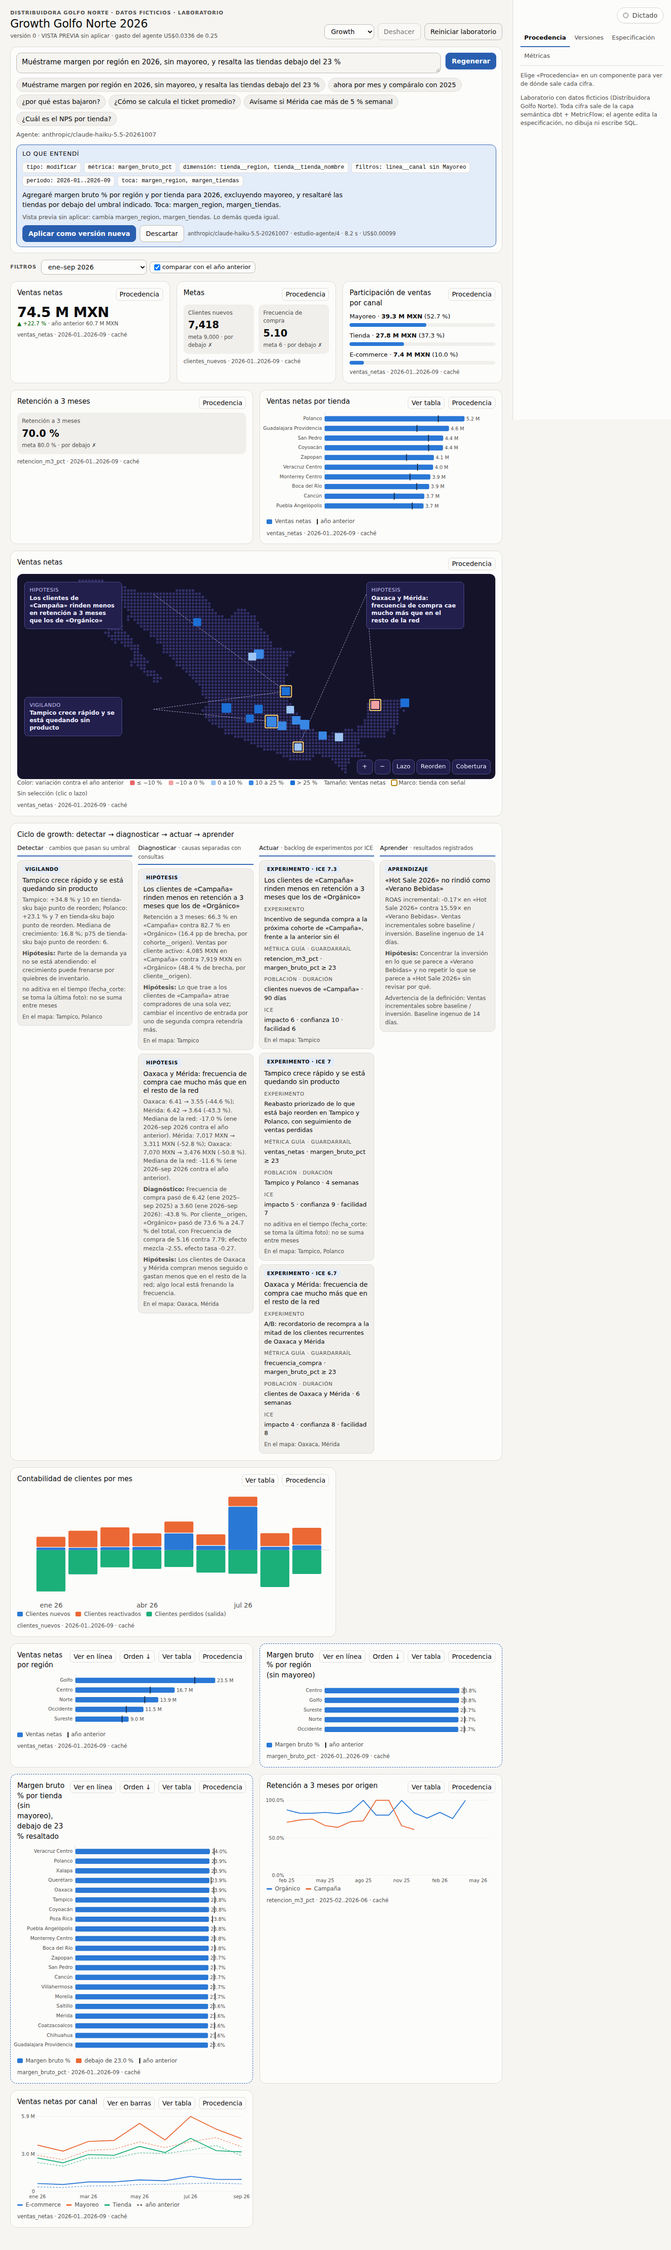
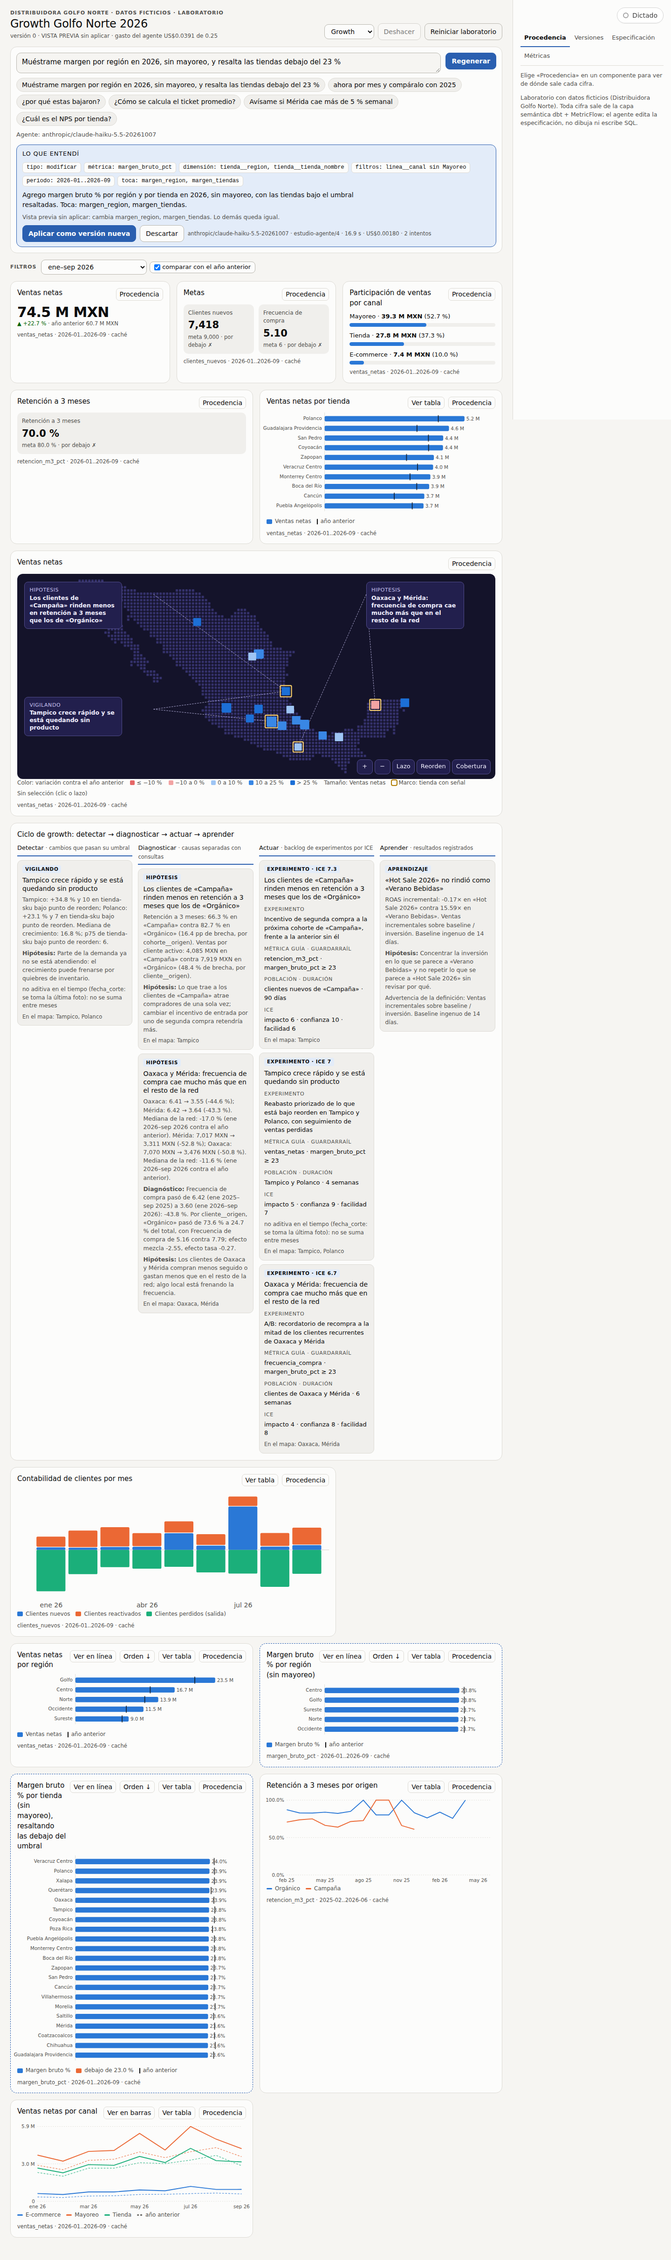
estudio: reporte (decisiones, formas de estar mal, post-mortem), propuestas para firmar sin firmar, capturas finales y grafo

diff --git a/docs/goals/estudio-dashboards-reporte.md b/docs/goals/estudio-dashboards-reporte.md
@@ -1,0 +1,201 @@
+# Estudio de dashboards: reporte del goal (2026-10-20)
+
+Spec: `docs/goals/estudio-dashboards.md` · grafo: `docs/grafos/estudio-dashboards.json` · propuestas para firmar:
+`docs/goals/estudio-dashboards-propuestas-firma.md` · evidencia: `docs/goals/estudio-dashboards-medicion/` y
+`docs/goals/estudio-dashboards-capturas/`. Datos ficticios (Distribuidora Golfo Norte). Sin push, PR ni firmas.
+
+## Qué existe
+
+- `tools/estudio-dashboards`: el núcleo (sin React, Next, Supabase ni Node; solo `zod`).
+  - **Especificación y parches.** Una especificación validada `estudio.dashboard/1` (15 tipos de componente: los 14 del prototipo más `hallazgo`) y parches `estudio.parche/1` con alcance declarado.
+  - **Versiones** con deshacer, comparación y oficial.
+  - **Catálogo genérico** de MetricFlow, y un **consultor** con límites y caché.
+  - **Resolver** que no suma en el cliente.
+  - **Análisis de variación**: mezcla y tasa, volumen y precio.
+  - **Motor de señales.**
+  - **Alertas** sin canal y **propuesta de métrica** como diff.
+  - **Superficie de herramientas**, el **agente** (el LLM solo estructura) y el **CLI**.
+  - **Subpaths**: `./metricflow` (MetricFlow caliente en un proceso Python del lock), `./openrouter` y `./almacenes/archivo`.
+- `tools/estudio-dashboards/laboratorio`: el proyecto dbt `golfo_norte`, igual al zip salvo las rutas por entorno y un target de solo lectura. Trae:
+  - `corre.mjs`: hashes, `dbt build`, `mf validate-configs` y la tabla de cifras;
+  - `directo.py`: el conteo directo;
+  - el segundo catálogo y el recorrido del CLI.
+- `tools/estudio-dashboards/evaluacion`: el contrato, el set congelado, su validador y la medición con el LLM real.
+- `src/features/estudio-dashboards` y `/laboratorio-estudio-dashboards`: el lienzo. La ruta `/api/estudio-dashboards` cierra con 503 fuera del laboratorio.
+- `scripts/estudio-dashboards/recorrido.ts`: los 7 flujos con Playwright y axe.
+
+## Evidencia por punto del HECHO
+
+**Datos fijados.**
+- Los 7 sha256 (`laboratorio/datos.json`) son iguales a los del spec y a los del zip.
+- Regenerar con semilla (numpy 2.5.4, pandas 3.0.6; `gen_data.py` y luego `lifecycle.py`, en una carpeta temporal) da los mismos 7 hashes: reproducible (`regeneracion.json`).
+- Los CSV del zip no se tocaron.
+
+**Plano de datos.**
+- `dbt build`: «Finished running 12 table models, 45 data tests, 10 view models · PASS=67 WARN=0 ERROR=0».
+- `mf validate-configs`: sin errores ni avisos en los siete pasos.
+- Lock con hashes: `semantica/requirements.lock`.
+
+**Tabla de cifras** (`cifras.md`): 62 filas.
+- 53 con MetricFlow = conteo directo.
+- 8 sin métrica en el catálogo, dichas así: combinaciones totales, meses con compra de los establecidos, días entre compras, valor a 6 meses y días en campaña.
+- 1 trampa documentada.
+- 2 que no cuadran con la propuesta, explicadas.
+
+Nada se ajustó. Las divergencias:
+
+| Cifra | Propuesta | Capa / directo | Por qué |
+|---|---|---|---|
+| `crecimiento_ventas_yoy_pct` a grano año, ene–sep 2026 | 22.7 | −17.02 / 22.72 | Trampa de la métrica con desfase: a grano año agrega 2025 completo antes de filtrar. A grano mes cuadra (julio: +44.84 en los dos). El Estudio compara periodos con dos consultas y rechaza esa métrica en un KPI de varios meses |
+| Retención M+3, todas las cohortes maduras | 70.0 | 72.50 / 72.50 | Ventana: con las cohortes de 2026 da 69.97 (la columna del catálogo de la propuesta dice «ene–sep 2026»); los 66.3 y 82.7 por origen son de todas las cohortes |
+| Días entre compras en Mérida | 23 → 42 | 23.77 → 42.51 (directo) | La propuesta trunca; redondeado serían 24 y 43. Sin métrica en el catálogo |
+| Valor en 6 meses, campaña y orgánico | 4,636 y 6,730 | 4,635.6 y 6,730.2 (directo, segundo intento) | Ventana no declarada: el primer intento (cohortes observadas 6 meses) dio 4,635.4 y 6,718.3; el segundo (altas hasta marzo de 2026) cuadra. Sin métrica |
+
+**Suites del núcleo.** `npm --prefix tools/estudio-dashboards run prueba`: 46 pruebas, 46 en verde. Incluyen los casos malos que pide el HECHO:
+- métrica inventada, dimensión inválida, SQL libre (campo, texto y filtro), fuera de dominio;
+- parche que borra o cambia de más;
+- deshacer y comparar;
+- sin métrica, que lo dice y ofrece proponerla;
+- números del texto ⊆ resultados.
+
+**Señales: 3 de 3 contra la capa real,** sin nombrarlas:
+- Oaxaca −44.6 % y Mérida −43.3 % en frecuencia, contra −17.0 % de mediana;
+- campaña 66.3 % contra orgánico 82.7 % en retención;
+- Tampico +34.8 % con 10 SKU bajo reorden, y Polanco.
+
+La prueba comprueba que ni `src/senales.ts` ni `laboratorio/perfil.json` nombran tiendas, regiones ni segmentos sembrados. Ninguna tarjeta sin evidencia; la cuarta es el aprendizaje del ROAS, real y con la advertencia del baseline.
+
+**Medición con el LLM real.**
+- Set `evaluacion/set-referencia.json`, sha256 `sha256:647b0b27ce23a447b2e99d2b697919e6cf3b393ea4785fe31cce9373e2897676`. Lo congela el commit `f6e42aa`, anterior al primer prompt (`ed2ec09`).
+- Gasto medido por llamada: **US$1.2087 en 984 llamadas, ninguna sin costo** (`llamadas.jsonl`).
+- Saldo de la cuenta: **1.9635 antes de la primera llamada → 0.7534 después de la última medición**.
+- Aparte, el lienzo gastó US$0.0409 en 55 llamadas (`~/.estudio-dashboards/golfo-norte/gasto.jsonl`).
+
+| corrida | modelo | razonamiento | total | crear | modificar | filtrar | analizar | explicar | alertar | US$ | modelo p50 ms | regeneración p50 / p95 ms | consulta p95 ms |
+|---|---|---|---|---|---|---|---|---|---|---|---|---|---|
+| voz-corrida1 (`4ce44ac`) | claude-haiku-5.5-20261007 | del proveedor | 95/100 | 14/16 | 19/20 | 16/16 | 14/16 | 16/16 | 16/16 | 0.0370 | 2549 | 2624 / 4959 | 35 |
+| voz (tras el arreglo de q059) | claude-haiku-5.5-20261007 | del proveedor | 94/100 | 14/16 | 18/20 | 16/16 | 14/16 | 16/16 | 16/16 | 0.0362 | 2446 | 2663 / 4685 | 33 |
+| voz-corrida3 | claude-haiku-5.5-20261007 | del proveedor | 95/100 | 15/16 | 18/20 | 16/16 | 14/16 | 16/16 | 16/16 | 0.0384 | 2683 | 3011 / 5637 | 81 |
+| ligero | claude-haiku-4.5 | del proveedor | 79/100 | 12/16 | 11/20 | 14/16 | 12/16 | 15/16 | 15/16 | 0.3026 | 2900 | 3077 / 7610 | 43 |
+| capaz | claude-sonnet-5 | del proveedor | 89/100 (+4/4 reintento por 429 = 93) | 16/16 | 17/20 | 12/16 (+4) | 14/16 | 16/16 | 14/16 | 0.6138 | 4130 | 4408 / 9157 | 32 |
+| voz-sin-razonamiento | claude-haiku-5.5-20261007 | apagado | 86/100 | 13/16 | 15/20 | 16/16 | 13/16 | 14/16 | 15/16 | 0.0236 | 1594 | 1723 / 2840 | 31 |
+| voz-razonamiento-1024 | claude-haiku-5.5-20261007 | 1024 | 95/100 | 16/16 | 17/20 | 16/16 | 14/16 | 16/16 | 16/16 | 0.0385 | 4507 | 4670 / 8073 | 33 |
+| **voz-razonamiento-512 (propuesta)** | claude-haiku-5.5-20261007 | 512 | **95/100** | 16/16 | 17/20 | 16/16 | 14/16 | 16/16 | 16/16 | 0.0388 | 4503 | 4698 / 8045 | 32 |
+
+- **≥ 90 % en total: sí**, con Haiku 5.5 (el nivel más barato). **Por tipo: no.** En la configuración propuesta,
+  modificar queda en 85 % y analizar en 87.5 %. **Ningún nivel medido pasa los seis tipos.** Opus 5 no cabía en el tope
+  (estimado ~US$1.5 con el acumulado en 1.07) ni en el saldo de la cuenta. El set no se relajó.
+- **Fallas persistentes** (leídas después de congelar el prompt; no se iteró contra la partición retenida):
+  - q021 y q027 (modificar): el esperado cuenta el eje de tiempo implícito de una línea como dimensión. El
+    contrato dice «si la instrucción lo pide», y ninguna de las dos lo pide.
+  - q020 (modificar): pide «por mes» y el agente no lo declaró. **Falla real del agente.**
+  - q059 (analizar): el set espera analizar `crecimiento_ventas_yoy_pct`. El motor rechaza descomponer una métrica
+    con desfase y el agente corrige a `ventas_netas`: choque entre el set y la semántica de la capa.
+  - q058 (analizar): «campaña frente a orgánicos» es eje de comparación o filtro; ambigua.
+  - Las demás fallas varían entre corridas (q004, q006, q012…): el modelo no es determinista ni a temperatura 0.
+- **Latencia**: la consulta a la capa en frío, p95 31–81 ms: **< 3 s, cumple**. La regeneración (modelo,
+  validación y datos con caché caliente) p95: 4.7–5.6 s con el razonamiento del proveedor, 8.0 s con el
+  propuesto y 2.8 s apagado. **El objetivo de < 5 s p95 no se cumple con la configuración que da 95 %**;
+  apagado sí se cumple, pero baja a 86 %. Es una decisión del laboratorio.
+
+**Capturas con Playwright** (`docs/goals/estudio-dashboards-capturas/`, `recorrido.json`): los 7 flujos en
+escritorio (1440×900) y celular (390×844), con el agente real.
+- Flujo 1: antes, «lo que entendí» y después.
+- Flujo 2: por mes y comparado con 2025, sobre la gráfica recién creada.
+- Flujo 3: mapa arrastrado y acercado, lazo en Mérida más clic en Oaxaca, el tablero filtrado y «¿por qué estas
+  bajaron?» con su hallazgo.
+- Flujo 4: procedencia con definición, dueño, filtros y SQL compilado.
+- Flujo 5: volver a la v1 y comparar la v1 con la v5.
+- Flujo 6: ciclo detectar → aprender con las tarjetas enlazadas en el mapa (en celular, como lista bajo el mapa).
+- Flujo 7: NPS sin métrica.
+
+Resultado: 0 peticiones externas, 0 errores de consola y **axe con 0 violaciones serias o críticas** en las dos
+vistas (WCAG 2.2 AA).
+
+**CLI** (`recorrido-cli.md`): los 12 subcomandos y `agente` contra la capa real.
+- El seco es la opción por defecto, y en seco no se escribe nada.
+- Códigos de salida: 2 uso, 3 métrica inventada, 3 SQL libre, 3 alerta sin confirmar, 4 sin capa y 5 sin llave.
+- La paridad CLI = núcleo la prueba `pruebas/cli.ts`, sin capa y contra la capa real.
+- Grado: no medido.
+
+**Portabilidad** (`segundo-catalogo.json`): la capa de soporte-sap tal cual. `dbt build` PASS=53, 38 métricas listadas, un tablero armado solo desde el catálogo, válido y resuelto con datos, y `git diff` del núcleo vacío.
+
+## Decisiones (qué y por qué)
+
+- **DuckDB y no Postgres**: el SQL del zip es DuckDB. Portarlo era riesgo puro (cada `strftime`, `date_diff` e
+  `interval`). Lock nuevo con dbt-duckdb 1.11.0 y duckdb 1.5.5 y las mismas versiones de la casa, más dbt-postgres
+  para servir también al segundo catálogo.
+- **MetricFlow caliente en un proceso Python** (API `MetricFlowEngine`) en vez de `mf query` por CLI o un compilador
+  propio. El CLI paga ~3 s de arranque por consulta; el proceso, 0.1 s. Un compilador propio sería reimplementar la
+  capa. El núcleo solo ve un puerto (`PuertoSemantico`).
+- **El LLM solo estructura** (el patrón de `grafo-conocimiento`): el plan dice tipo y «lo que entendí». Solo
+  MODIFICAR trae operaciones; crear, filtrar, analizar, explicar y alertar los arma el núcleo. Así no escribe cifras
+  ni SQL, y el 90 % mide comprensión, no la sintaxis de un JSON largo.
+- **Parches con alcance y tres cerrojos contra el merge silencioso**: operaciones por tipo, lo tocado ⊆ lo declarado
+  y los componentes no tocados idénticos byte a byte.
+- **Comparar con el año anterior = dos consultas**, nunca la métrica con desfase sobre un periodo: lo enseñó la
+  tabla de cifras (−17 % contra +22.7 %).
+- **Umbrales de señales estadísticos y declarados**: z robusto 3, brecha 10 pp o 15 %, mediana y p75. El perfil solo
+  asigna métricas a palancas y dimensiones de recorrido («por tienda, cohorte y origen», del spec).
+- **La geografía no es cifra**: las coordenadas vienen de `tiendas.csv` y la rejilla del prototipo, en
+  `geografia.json`. La cobertura queda apagada porque la capa no tiene ese dato.
+- **CLI y no MCP**: lo decidió el laboratorio (CLI-first: un MCP se paga en cada sesión).
+- **Versiones en archivo** (`~/.estudio-dashboards/`): Supabase está pausado y el núcleo no lo conoce.
+- **Iteración del prompt solo contra la partición de desarrollo**. Se reporta la retenida aparte: 92.9–94.3 % según
+  la corrida.
+
+## Formas en que esto podría estar mal o incompleto
+
+Las que se resolvieron:
+- **El puntuador aplicaba la regla general del contrato a todos los tipos**; la tabla del contrato fija qué se
+  compara por tipo. Se corrigió el puntuador (no el set) tras la primera corrida de desarrollo, y queda dicho aquí.
+- **Truncado del plan** por razonamiento oculto: se mide y se fija explícito.
+- **Lectores bloqueados por DuckDB**: target de solo lectura.
+- **Orden de filas no determinista**: el adaptador ordena.
+- **El lazo y los botones del mapa no recibían el clic.**
+- **Contraste y semántica de listas** según axe.
+
+Las que siguen abiertas:
+- **Umbrales vistos con los datos**: fijé los umbrales de señales después de mirar la distribución por tienda. Son
+  estadísticos de manual, pero es posible que otro umbral igual de razonable deje fuera a Polanco o meta otra
+  tienda. No se probó el motor contra un catálogo con señales distintas.
+- **El set** tiene al menos cuatro esperados discutibles (§Medición). Con un set v2 adjudicado, modificar y
+  analizar podrían pasar el 90 %, o no: no se sabe y no se supuso.
+- **Variación entre corridas**: 94–95/100 con la misma configuración. Tres corridas no son una distribución.
+- **Latencia**: la configuración precisa no cumple los 5 s p95.
+- **«Lo que entendí» para MODIFICAR** declara métricas y dimensiones del componente tocado. Es una convención del
+  prompt que el contrato no fija con precisión, y es el origen de las fallas de dimensiones.
+- **Mezcla y tasa en el análisis**: un segmento que no existía antes se compara contra la tasa global anterior. Es
+  shift-share estándar, pero el texto puede decir «efecto mezcla 0.0» en un cambio de composición total, como
+  julio. Es correcto y poco intuitivo.
+- **La matriz de puntos** usa la rejilla del prototipo (celdas de 0.3°), no el marco geoestadístico del INEGI.
+- **Las 8 cifras «sin métrica»** del growth por área (meses con compra, días entre compras, valor a 6 meses) solo
+  salen del conteo directo. Si la dirección las quiere en el tablero, son métricas por proponer.
+- **El componente `medidor`** se dibuja como KPI con meta, no como medidor circular.
+- **El recorrido de Playwright tuvo una corrida con un clic intermitente** en celular; las corridas siguientes
+  pasaron 14/14.
+
+## Post-mortem
+
+1. **Razonamiento oculto que se come el tope.** Haiku 5.5 en OpenRouter razona por omisión dentro de `max_tokens`:
+   1,182 de 1,200 tokens, y el plan salió truncado en una instrucción de dos gráficas. La medición del set casi no
+   lo vio (instrucciones más cortas); el lienzo sí. *Regla propuesta*: todo adaptador de LLM declara el razonamiento
+   (tope propio o apagado), y la medición se repite con esa configuración. Ya lo decía `sistema-integrado` para Opus 5:
+   faltaba aplicarlo por omisión.
+2. **El desfase anual a grano año miente.** `crecimiento_ventas_yoy_pct` sobre ene–sep compara 9 meses contra 12. Lo
+   cazó el conteo directo, no una prueba. *Regla*: toda métrica con desfase se valida contra un conteo directo a su
+   grano y a un grano mayor antes de entrar a un tablero.
+3. **DuckDB admite un solo escritor.** `node --test` corre archivos en paralelo y dos MetricFlow se bloquearon sin
+   error visible (colgados). *Regla*: los consumidores de una capa DuckDB abren en solo lectura (`access_mode:
+   READ_ONLY` en un target aparte).
+4. **Sin ORDER BY no hay orden.** La paridad CLI = núcleo falló por orden de filas con valores iguales. El adaptador
+   ordena por las columnas de agrupación.
+5. **`setPointerCapture` en el contenedor se traga el clic de sus botones.** Los botones del mapa no funcionaban; el
+   recorrido de Playwright lo cazó, no una prueba unitaria.
+6. **Un canario que lee el catálogo da falso positivo.** La etiqueta de una métrica del YAML coincidía con una
+   pregunta. El canario vigila el texto redactado; el catálogo es insumo compartido por diseño.
+7. **Leer un contrato a medias.** El puntuador aplicó la regla general y no la tabla por tipo; costó una corrida de
+   desarrollo darse cuenta. *Regla*: el puntuador se prueba contra el contrato con casos sintéticos antes de la
+   primera corrida.
+8. **Los tipos de Next exigen `NODE_ENV`** en todo `env` de `spawn` dentro de `tools/` (el typecheck raíz los
+   incluye): se pasa explícito.

diff --git a/docs/goals/estudio-dashboards-propuestas-firma.md b/docs/goals/estudio-dashboards-propuestas-firma.md
@@ -1,0 +1,96 @@
+# Estudio de dashboards: propuestas para firmar (SIN firmar)
+
+> Fuera del registro, a propósito: nada de esto entra en `.claude/gobernanza/BITACORA-CDC.md` hasta que el
+> laboratorio lo firme (aprendizaje del 2026-09-20: una entrada «pendiente» en la bitácora tumba el gate, y está bien
+> que lo haga). La firma la escribe el laboratorio. Rama `estudio/dashboards`, worktree
+> `.claude/worktrees/estudio-dashboards`, sin push, sin PR y sin merge.
+
+## 1. CDC — borrador de la entrada para la bitácora
+
+### 2026-10-20 — Estudio de dashboards: clase `agente-estudio-dashboards` en el nivel `voz`, prompt `estudio-agente/4` y superficie CLI — radio: routing (C8) y producto (paquete `@tu-scope/estudio-dashboards`, app `/laboratorio-estudio-dashboards`)
+
+- **Cambio**:
+  1. **`.claude/routing-modelos.json`: clase nueva `agente-estudio-dashboards` → `voz`** (una línea; el nivel `voz` y
+     su modelo pineado `anthropic/claude-haiku-5.5-20261007` ya existen).
+
+     ```diff
+     @@ "tareas"
+          "asistente-paciente": "voz",
+     +    "agente-estudio-dashboards": "voz",
+          "implementar-feature": "capaz",
+     ```
+
+     **Por qué `voz`**: es el nivel más barato del routing y el que mejor midió. Sobre el set de referencia congelado
+     (100 preguntas), Haiku 5.5 dio 95, 94 y 95 de 100 con el razonamiento del proveedor, y 95/100 con espacio de
+     razonamiento propio. Haiku 4.5 (`ligero`) dio 79/100. Sonnet 5 (`capaz`) dio 93/100 (89 más 4 reintentos por 429
+     del proveedor), a 17 veces el costo y con regeneración p95 de 9.2 s. Eficiencia por reparto: no se paga Sonnet.
+     **Pero** el «para» del nivel `voz` describe conversación por voz sin herramientas; esta clase **estructura** una
+     instrucción en un plan validado. Dos salidas para que decida el laboratorio: (a) ampliar el «para» de `voz` a
+     «o estructurar una instrucción corta en un plan que valida el código»; (b) un nivel nuevo `estructurar` con el
+     mismo modelo, que exige tocar el tipo `Nivel` de `src/lib/ai/routing.ts`. Esta rama no hace ninguna de las dos.
+     **Lo que el agente NO decide** (y por eso cabe en un nivel barato): no escribe cifras ni SQL; el núcleo valida
+     el plan contra el esquema y el catálogo, rechaza el parche que toca de más, redacta con resultados de la capa y
+     no registra nada sin una persona (aplicar, alertas).
+  2. **Configuración del modelo**: temperatura 0, respuesta hasta 1,200 tokens y **razonamiento con espacio propio
+     de 512 tokens** (`razonamiento: { maxTokens: 512 }` en `tools/estudio-dashboards/src/openrouter.ts`). Sin él,
+     Haiku 5.5 razona dentro del tope y trunca el plan en las instrucciones largas: medido el 2026-10-20, 1,182 de
+     1,200 tokens razonando y el JSON cortado. Con el razonamiento apagado da 86/100 (regeneración p95 2.8 s). Es
+     una decisión del laboratorio entre precisión y latencia.
+  3. **Prompt del agente** `tools/estudio-dashboards/src/agente/prompt.ts`, versión **`estudio-agente/4`**
+     (sha256 del archivo `ea73b47a9b2c8d5e`, primeros 16 hex). Historia:
+     - `/1` (commit `ed2ec09`) se escribió **después** de congelar el set (`f6e42aa`) y sin leerlo.
+     - `/2` y `/3` iteraron SOLO contra la partición de desarrollo (30 preguntas), nunca contra la retenida (70). Agregaron dos reglas genéricas: «margen» a secas es el %, y un valor que existe en dos dimensiones toma la más específica. También una dimensión que solo filtra no es desglose, y los dominios se ordenan del más fino al más grueso.
+     - `/4` agrega la línea «ÚLTIMO CAMBIO» solo en una conversación, para que «ahora…» sepa a qué se refiere. Para una instrucción suelta, como las del set, el mensaje es **byte a byte** el que se midió con `/3`; lo prueba `pruebas/agente.ts`.
+     El sistema es genérico: el catálogo y los dominios se insertan desde la capa; las convenciones de periodo se
+     calculan de la fecha de corte. Una prueba canario comprueba que ninguna pregunta del set (6 palabras seguidas)
+     aparece en el texto redactado del prompt.
+  4. **Superficie CLI** `estudio-dashboards` (`tools/estudio-dashboards/src/cli/index.ts`): las nueve herramientas de
+     la propuesta (`listar_metricas`, `describir_metrica`, `consultar_metricas`, `leer_dashboard`, `editar_dashboard`,
+     `analizar_variacion`, `ver_senales`, `crear_alerta`, `proponer_metrica`), tres de versiones (`comparar_versiones`,
+     `volver_version`, `fijar_oficial`) y `agente`. Lo que escribe va **en seco** salvo `--aplicar`; una alerta exige
+     además `--confirmada-por` y no tiene canal; `proponer_metrica` devuelve un diff y no abre PR. Códigos de salida:
+     0 · 2 uso · 3 esquema · 4 capa · 5 modelo. Lee la capa real o la foto del catálogo; jamás inventa. **Grado: no
+     medido** (no se puntuó con la imprenta).
+  - **Sin cambios** en `.claude/settings.json`, hooks, `gates.json`, `AGENTS.md`, skills ni el manifiesto de la
+    imprenta. La suite nueva (`tools/estudio-dashboards`, 46 pruebas) entra sola en `prueba:tools`.
+- **Motivo**: el spec `docs/goals/estudio-dashboards.md` (decisiones del laboratorio del 2026-10-20: LLM real con
+  tope de US$2 y el nivel más barato primero; «luego lo pasas a CLI»).
+- **Gate aplicado**: diff revisado ☐ · regresión verde ☑ (capa A 166/166 el 2026-10-20; la capa B no la corre el
+  agente: decide el laboratorio) · aprobación humana ☐ · pineo ☑ (modelo pineado, lock de Python con hashes, npm exacto).
+- **Regresión**: además de la capa A, la medición del agente contra el set congelado
+  (`docs/goals/estudio-dashboards-medicion/medicion-*.json`). En la configuración propuesta: 95/100, con crear,
+  filtrar, explicar y alertar al 100 %, modificar al 85 % y analizar al 87.5 %. **No llega al 90 % en esos dos
+  tipos**. El set no se relajó; las fallas están explicadas en el reporte §Medición.
+- **Salida del perímetro (C4)**: el prompt (catálogo de Golfo Norte, datos ficticios), la especificación y la
+  instrucción van a OpenRouter. Datos ficticios: no hay decisión C4 de por medio (spec). Con datos reales, C4 antes.
+- **Aprobado por**: ☐ (lo escribe el laboratorio)
+
+## 2. README product first
+
+`tools/estudio-dashboards/README.md`: conforme a `npm run revisa:readmes` (31/31 en alcance el 2026-10-20). La
+feature `src/features/estudio-dashboards` queda sin README, listada como pendiente por el auditor (no se crean solos).
+
+## 3. Filas del inventario
+
+En `inventario/activos.json`, las dos en estado **`blueprint`**, como el crecimiento demostrado antes de firmarse; el
+laboratorio decide estado y clase. Entraron en la rama porque `verifica:inventario` y `empaqueta` las exigen:
+
+- `TPL-estudio-dashboards` → `tools/estudio-dashboards` (PRODUCTO).
+- `TPL-feature-estudio-dashboards` → `src/features/estudio-dashboards` y `scripts/estudio-dashboards` (PRODUCTO).
+
+## 4. Fila de rutas públicas
+
+En `docs/REVISION-rutas-publicas.md` §3: `POST /api/estudio-dashboards`. Hoy responde 503 sin
+`ESTUDIO_LABORATORIO=1`, y la acción que gasta OpenRouter también responde 503 sin `OPENROUTER_API_KEY` o al llegar al
+tope del lienzo (US$0.25). Riesgo **bajo** hoy y **medio** si se enciende fuera del laboratorio: la ruta no tiene
+cuenta, y antes de exponerla hace falta sesión y C3.
+
+## 5. Lo que queda para otra firma (no se hizo)
+
+- **Adoptar el CLI en el arnés** (skill, `settings.json` o manifiesto de la imprenta): CDC aparte.
+- **Set de referencia v2**: cuatro respuestas esperadas chocan con el contrato o con la capa (q021 y q027 cuentan
+  como dimensión el eje de tiempo de una línea que la instrucción no pide; q059 espera analizar una métrica con
+  desfase, que la capa no puede totalizar; q058 es ambigua entre eje y filtro). Adjudicarlas es del laboratorio y
+  de un revisor; esta rama no tocó el set.
+- **Reglas de auto-blindaje** del post-mortem (reporte §Post-mortem) en `.claude/rules/aprendizajes-stack.md`:
+  propuestas, sin aplicar.
